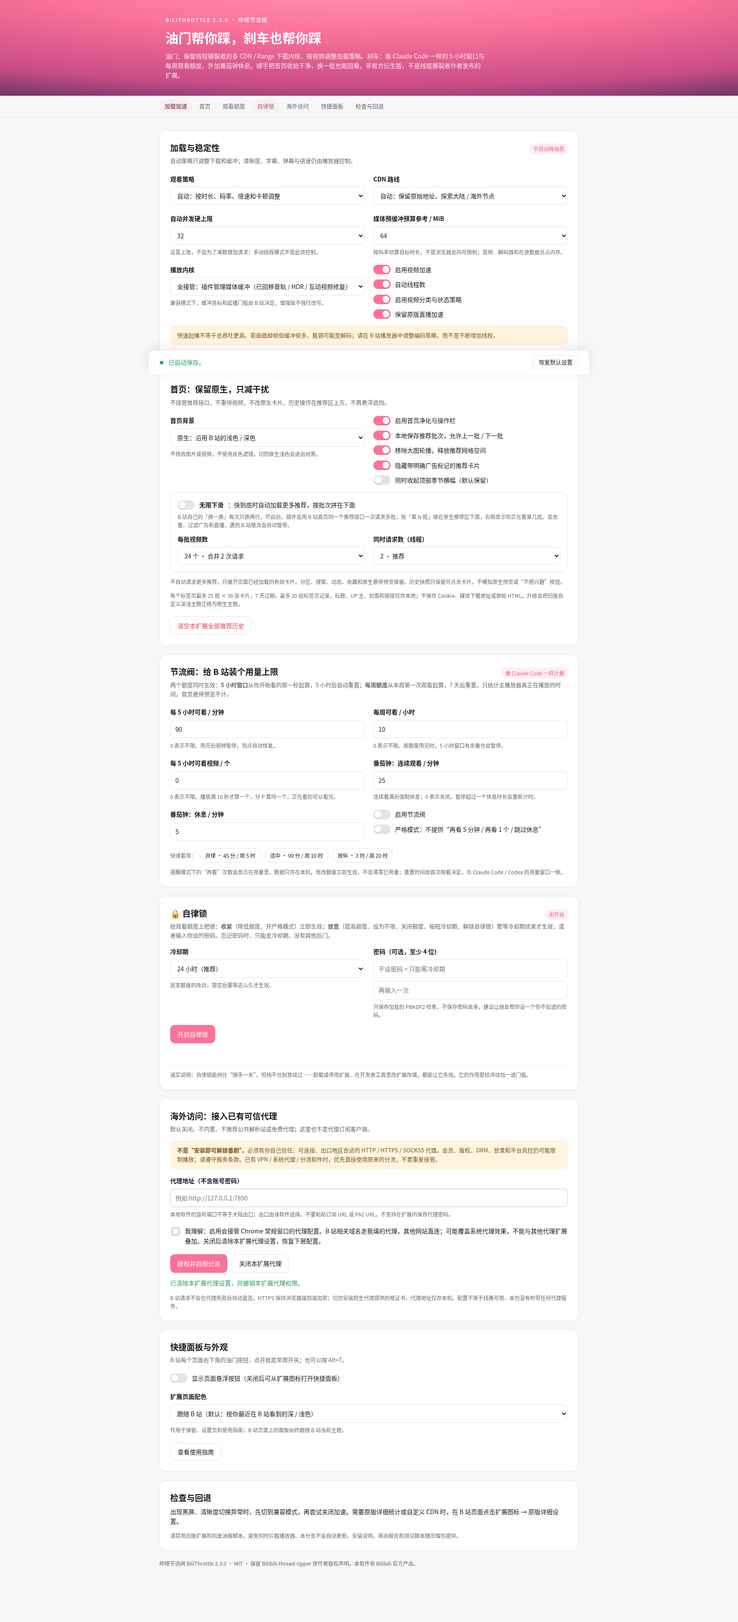
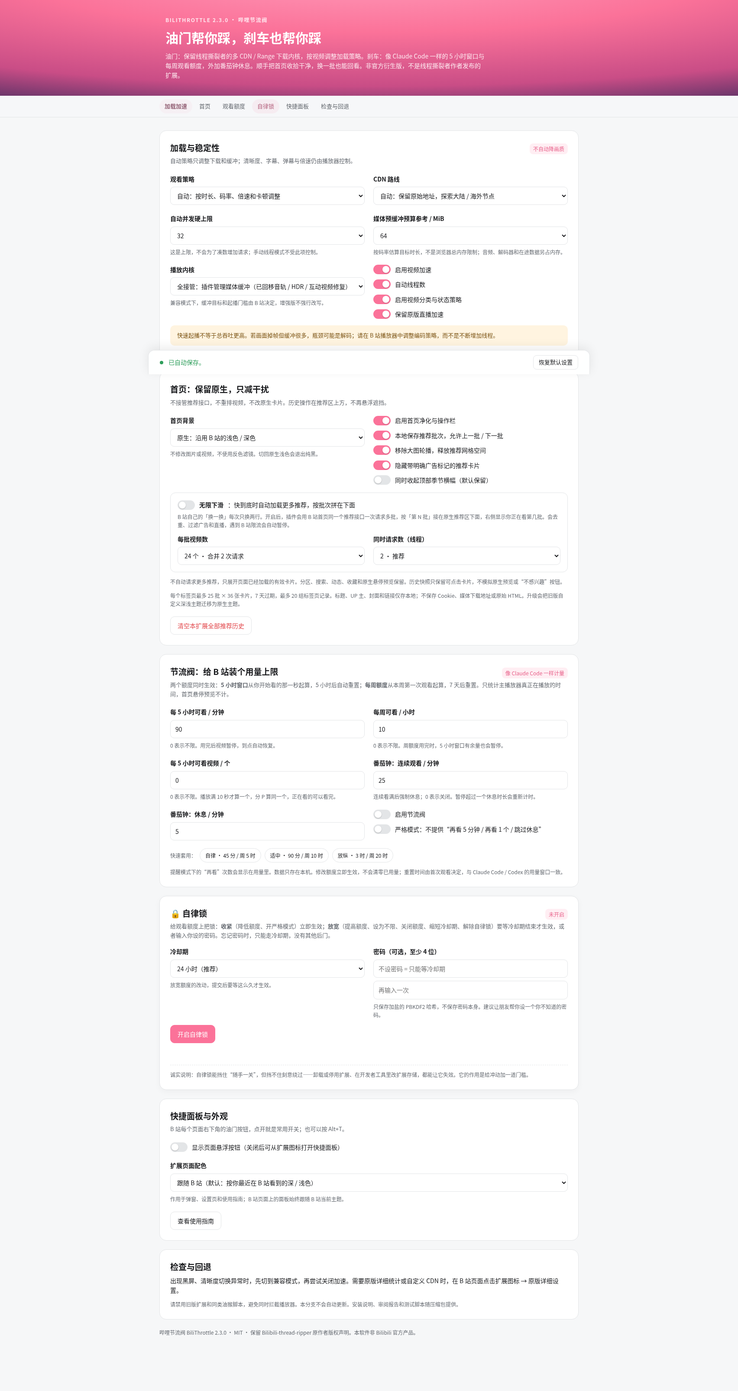
Options: remove the proxy section (Chrome rejects 'proxy' as optional); section nav follows the middle of the screen
- manifest: drop optional_permissions ['proxy']. Chrome lists proxy among the
  permissions that cannot be optional, so it was never grantable (the
  extensions page warned). Making it required would add an install warning and
  disable the extension on update until re-approved, for a niche feature.
  Removed the 海外访问 section, its toc link, options.js code and proxy-core.js;
  the service worker drops the stale flowProxy key.
- nav: the section under the middle of the visible area is current; one
  filling more than half of it always wins; near the page end the line slides
  down so short last sections get lit. Fixes 首页 lit while 节流阀 filled
  the screen at 1280x800.
- tests/browser-options.py: the real options page in the unpacked extension,
  wheel-scrolled at 1280x800 and 1920x1200 (3).

Changed region(s): [[0.0, 0.0, 1.0, 0.9654], [0.6221, 0.9031, 0.7465, 0.9343], [0.6843, 0.4671, 0.7465, 0.4983]]

diff --git a/extension/ui/options.html b/extension/ui/options.html
@@ -1,6 +1,6 @@
 <!doctype html><html lang="zh-CN"><head><meta charset="utf-8"><meta name="viewport" content="width=device-width,initial-scale=1"><title>哔哩节流阀 · 设置</title><script src="../src/ui-kit.js"></script><link rel="stylesheet" href="common.css"></head><body>
 <header class="hero"><div style="max-width:940px;margin:auto"><div class="brand">BILITHROTTLE 2.3.0 · 哔哩节流阀</div><h1>油门帮你踩，刹车也帮你踩</h1><p>油门：保留线程撕裂者的多 CDN / Range 下载内核，按视频调整加载策略。刹车：像 Claude Code 一样的 5 小时窗口与每周观看额度，外加番茄钟休息。顺手把首页收拾干净，换一批也能回看。非官方衍生版，不是线程撕裂者作者发布的扩展。</p></div></header>
-<nav class="toc" id="toc" aria-label="设置分区"><ul><li><a href="#speed">加载加速</a></li><li><a href="#home">首页</a></li><li><a href="#focus">观看额度</a></li><li><a href="#lock">自律锁</a></li><li><a href="#proxy">海外访问</a></li><li><a href="#quick">快捷面板</a></li><li><a href="#help">检查与回退</a></li></ul></nav>
+<nav class="toc" id="toc" aria-label="设置分区"><ul><li><a href="#speed">加载加速</a></li><li><a href="#home">首页</a></li><li><a href="#focus">观看额度</a></li><li><a href="#lock">自律锁</a></li><li><a href="#quick">快捷面板</a></li><li><a href="#help">检查与回退</a></li></ul></nav>
 <main class="wrap"><form id="settings"><section class="card" id="speed"><div class="row between"><h2>加载与稳定性</h2><span class="pill">不自动降画质</span></div><p class="muted">自动策略只调整下载和缓冲；清晰度、字幕、弹幕与倍速仍由播放器控制。</p>
 <div class="grid mt"><div class="field"><label for="strategy">观看策略</label><select id="strategy"><option value="auto">自动：按时长、码率、倍速和卡顿调整</option><option value="smooth">稳播优先</option><option value="fast">起播优先</option><option value="economy">省流</option></select></div>
 <div class="field"><label for="mode">CDN 路线</label><select id="mode"><option value="auto">自动：保留原始地址，探索大陆 / 海外节点</option><option value="mainland">大陆优先</option><option value="overseas">海外优先</option><option value="custom">自定义（在原版详细设置中配置）</option></select></div>
@@ -39,12 +39,6 @@
 </div>
 <p id="lockStatus" class="status" role="status" aria-live="polite"></p><p class="fine honest">诚实说明：自律锁能挡住“随手一关”，但挡不住刻意绕过——卸载或停用扩展、在开发者工具里改扩展存储，都能让它失效。它的作用是给冲动加一道门槛。</p></section>
 </form>
-<section class="card" id="proxy"><h2>海外访问：接入已有可信代理</h2><p class="muted">默认关闭。不内置、不推荐公共解析站或免费代理；这里也不是代理订阅客户端。</p>
-<div class="notice"><strong>不是“安装即可解锁番剧”。</strong>必须有你自己信任、可连接、出口地区合适的 HTTP / HTTPS / SOCKS5 代理。会员、版权、DRM、登录和平台风控仍可能限制播放；请遵守服务条款。已有 VPN / 系统代理 / 分流软件时，优先直接使用原来的分流，不要重复接管。</div>
-<div class="field"><label for="proxyUrl">代理地址（不含账号密码）</label><input id="proxyUrl" type="text" placeholder="例如 http://127.0.0.1:7890" autocomplete="off" spellcheck="false"><span class="hint">本地软件的监听端口不等于大陆出口；出口由该软件选择。不要粘贴订阅 URL 或 PAC URL。不支持在扩展内保存代理密码。</span></div>
-<label class="checkbox-line" style="margin-top:18px"><input id="proxyConsent" type="checkbox"><span>我理解：启用会接管 Chrome 常规窗口的代理配置。B 站相关域名走我填的代理，其他网站直连；可能覆盖系统代理效果，不能与其他代理扩展叠加。关闭后清除本扩展代理设置，恢复下层配置。</span></label>
-<div class="actions"><button id="enableProxy" class="primary" type="button">授权并启用分流</button><button id="disableProxy" type="button">关闭本扩展代理</button></div><p id="proxyStatus" class="status" role="status" aria-live="polite"></p>
-<p class="fine">B 站请求不会在代理失败后自动直连。HTTPS 保持浏览器端到端加密；切勿安装陌生代理提供的根证书。代理地址仅存本机。配置不等于线路可用，本包没有附带任何代理服务。</p></section>
 <section class="card" id="quick"><h2>快捷面板与外观</h2><p class="muted">B 站每个页面右下角的油门按钮，点开就是常用开关；也可以按 Alt+T。</p><div class="stack mt"><label class="row"><span class="switch"><input type="checkbox" role="switch" id="quickFab" form="settings"><span></span></span>显示页面悬浮按钮（关闭后可从扩展图标打开快捷面板）</label></div><div class="field mt"><label for="uiTheme">扩展页面配色</label><select id="uiTheme" form="settings"><option value="bili">跟随 B 站（默认：按你最近在 B 站看到的深 / 浅色）</option><option value="system">跟随系统</option><option value="light">浅色</option><option value="dark">深色</option></select><span class="hint">作用于弹窗、设置页和使用指南；B 站页面上的面板始终跟随 B 站当前主题。</span></div><div class="actions"><a class="button-link" href="welcome.html" target="_blank">查看使用指南</a></div></section>
 <section class="card" id="help"><h2>检查与回退</h2><p>出现黑屏、清晰度切换异常时，先切到兼容模式，再尝试关闭加速。需要原版详细统计或自定义 CDN 时，在 B 站页面点击扩展图标 → 原版详细设置。</p><p class="fine">请禁用旧版扩展和同类油猴脚本，避免同时拦截播放器。本分支不会自动更新。安装说明、审阅报告和测试脚本随压缩包提供。</p></section>
-<p class="fine">哔哩节流阀 BiliThrottle 2.3.0 · MIT · 保留 Bilibili-thread-ripper 原作者版权声明。本软件非 Bilibili 官方产品。</p><div class="savebar" id="savebar"><span class="dot" aria-hidden="true"></span><p id="saved" class="status" role="status" aria-live="polite">改动会自动保存。</p><button type="button" id="restore" class="small">恢复默认设置</button></div></main><script src="../src/home-core.js"></script><script src="../src/focus-core.js"></script><script src="../src/proxy-core.js"></script><script src="../src/lock-core.js"></script><script src="options.js"></script></body></html>
+<p class="fine">哔哩节流阀 BiliThrottle 2.3.0 · MIT · 保留 Bilibili-thread-ripper 原作者版权声明。本软件非 Bilibili 官方产品。</p><div class="savebar" id="savebar"><span class="dot" aria-hidden="true"></span><p id="saved" class="status" role="status" aria-live="polite">改动会自动保存。</p><button type="button" id="restore" class="small">恢复默认设置</button></div></main><script src="../src/home-core.js"></script><script src="../src/focus-core.js"></script><script src="../src/lock-core.js"></script><script src="options.js"></script></body></html>

diff --git a/extension/ui/options.js b/extension/ui/options.js
@@ -96,30 +96,6 @@ chrome.storage.onChanged.addListener((changes,area)=>{
  if(area==='local'&&changes.focusLock)refreshLock();
 });
 
-/* ---------- proxy (unchanged behaviour) ---------- */
-const proxyCall=(method,details)=>new Promise((resolve,reject)=>{chrome.proxy.settings[method](details,result=>{const e=chrome.runtime.lastError;if(e)reject(new Error(e.message));else resolve(result);});});
-async function proxyState(){
- const data=await chrome.storage.local.get('flowProxy');if(data.flowProxy?.url)$('proxyUrl').value=data.flowProxy.url;
- if(!await chrome.permissions.contains({permissions:['proxy']})){$('proxyStatus').textContent='未授权 / 未启用；浏览器代理保持不变。';return;}
- const s=await proxyCall('get',{incognito:false});$('proxyStatus').textContent=s.levelOfControl==='controlled_by_this_extension'?'本扩展的代理分流已配置。线路是否可用，需要在真实 B 站页面验证。':`本扩展未控制当前代理（${s.levelOfControl}）。`;
-}
-$('enableProxy').onclick=async()=>{
- const b=$('enableProxy');try{
-  if(!$('proxyConsent').checked)throw new Error('请先阅读并勾选代理影响说明。');
-  const url=$('proxyUrl').value.trim(),pac=globalThis.__BTR_PROXY_CORE__.pac(url);
-  const granted=await chrome.permissions.request({permissions:['proxy']});if(!granted)throw new Error('未获得代理权限，配置没有更改。');
-  b.disabled=true;const s=await proxyCall('get',{incognito:false});
-  if(!['controllable_by_this_extension','controlled_by_this_extension'].includes(s.levelOfControl))throw new Error('代理正由其他扩展或管理策略控制，未覆盖。请保留原来的分流方式。');
-  await proxyCall('set',{value:{mode:'pac_script',pacScript:{data:pac,mandatory:true}},scope:'regular_only'});
-  await chrome.storage.local.set({flowProxy:{url,at:Date.now()}});await proxyState();
- }catch(e){ui.flash($('proxyStatus'),e.message,'error');}finally{b.disabled=false;}
-};
-$('disableProxy').onclick=async()=>{try{
- if(await chrome.permissions.contains({permissions:['proxy']})){await proxyCall('clear',{scope:'regular_only'});await chrome.permissions.remove({permissions:['proxy']});}
- await chrome.storage.local.remove('flowProxy');ui.flash($('proxyStatus'),'已清除本扩展代理设置，并撤销本扩展代理权限。','ok');
-}catch(e){ui.flash($('proxyStatus'),e.message,'error');}};
-proxyState().catch(e=>$('proxyStatus').textContent=e.message);
-
 /* ---------- self-discipline lock ---------- */
 let lock={locked:false};
 const lockSay=(t,k)=>ui.flash($('lockStatus'),t,k);
@@ -217,25 +193,25 @@ async function focusUsage(){try{const r=await chrome.runtime.sendMessage({type:'
  let sn=$('focusUsage').querySelector('.snoozes');if(r.snoozes){if(!sn){sn=document.createElement('p');sn.className='hint snoozes';$('focusUsage').append(sn);}sn.textContent=`这个窗口里已经“再看”了 ${r.snoozes} 次`;}else sn?.remove();
 }catch(_){}}
 
-/* ---------- sticky section nav: the section under a reading line just below the nav is current ---------- */
+/* ---------- sticky section nav: the section under the middle of the visible area is current ---------- */
 const links=[...document.querySelectorAll('.toc a')],targets=links.map(a=>document.querySelector(a.getAttribute('href'))).filter(Boolean);
 let navFrame=0,navCurrent=null;
 let navPin=null;
 function navUpdate(){
  navFrame=0;
  if(navPin&&performance.now()<navPin.until){setNav(navPin.target);return;}navPin=null;
- // The section whose top is closest above the 35% line of the viewport (below the sticky nav)…
- const top=$('toc')?.getBoundingClientRect().bottom||0,bottom=innerHeight-($('savebar')?.offsetHeight||0);
- const line=Math.max(top+8,innerHeight*.35);
- let cur=targets[0],best=null,bestArea=0;
- for(const t of targets){
-  const r=t.getBoundingClientRect();
-  if(r.top<=line)cur=t;
-  const area=Math.max(0,Math.min(r.bottom,bottom)-Math.max(r.top,top));
-  if(area>bestArea){bestArea=area;best=t;}
- }
- // …unless another section clearly owns the screen (more than 60% of the visible area).
- if(best&&best!==cur&&bestArea>.6*(bottom-top))cur=best;
+ // The section under the middle of the visible area (between the sticky nav and the save bar).
+ // A 35%-line rule lagged on short screens: at 1280×800 a section filling 56% of the screen
+ // stayed unlit because its top was still below the line.
+ const top=Math.max(0,$('toc')?.getBoundingClientRect().bottom||0),bottom=innerHeight-($('savebar')?.offsetHeight||0);
+ // Over the last stretch of scrolling the line slides down to the bottom edge, so short sections
+ // at the end of a tall window still get their turn before the page runs out.
+ const mid=(top+bottom)/2,span=bottom-mid,remaining=document.documentElement.scrollHeight-innerHeight-scrollY;
+ const line=mid+Math.max(0,span-Math.max(0,remaining));
+ let cur=targets[0];
+ for(const t of targets){if(t.getBoundingClientRect().top<=line)cur=t;else break;}
+ // A section filling more than half of the visible area is always the current one.
+ for(const t of targets){const r=t.getBoundingClientRect();if(Math.min(r.bottom,bottom)-Math.max(r.top,top)>span){cur=t;break;}}
  if(innerHeight+scrollY>=document.documentElement.scrollHeight-4)cur=targets.at(-1); // Bottom of the page: the last section, even if short.
  setNav(cur);
 }

diff --git a/extension/src/service-worker.js b/extension/src/service-worker.js
@@ -17,7 +17,10 @@ function setThreadBadge(tabId, enabled, activeThreads) {
 async function prepareExtension() {
   const s = await chrome.storage.sync.get(null);
   const defaults = {mode:"auto", smartPolicy:true, strategy:"auto", memoryBudgetMB:64, maxAutoThreads:32};
-  // One-time schema migration: preserve playback and proxy settings, remove the old forced theme.
+  // The old "海外访问" proxy section was removed in 2.3.0 (Chrome never allowed `proxy` as an
+  // optional permission, so it could not be granted); drop its saved address, if any.
+  chrome.storage.local.remove("flowProxy").catch(() => {});
+  // One-time schema migration: preserve playback settings, remove the old forced theme.
   if (s.flowHomeSchema !== 2) {
     await chrome.storage.sync.set({flowHomeSchema:2,homeTheme:["native","oled"].includes(s.homeTheme)?s.homeTheme:"native",
       homeHideCarousel:s.homeHideCarousel !== false,homeHideBanner:s.homeHideBanner === true,homeHideAds:s.homeHideAds !== false});

diff --git a/extension/tests/browser-dom.py b/extension/tests/browser-dom.py
@@ -139,7 +139,7 @@ with sync_playwright() as p:
  markup=(ROOT/'ui/options.html').read_text();markup=re.sub(r'<script[^>]*>.*?</script>','',markup,flags=re.S);markup=re.sub(r'<link[^>]*>','',markup)
  option.set_content(markup);option.add_style_tag(content=(ROOT/'ui/common.css').read_text())
  script(option,'tests/browser-shim.js');option.evaluate("window.chrome=window.chromeMock;0")  # extension page: ui-kit reads chrome.storage for the theme
- for f in ['src/ui-kit.js','src/home-core.js','src/focus-core.js','src/proxy-core.js','src/lock-core.js']:script(option,f)
+ for f in ['src/ui-kit.js','src/home-core.js','src/focus-core.js','src/lock-core.js']:script(option,f)
  # The service worker owns watch-limit writes (self-discipline lock); mock it as "no lock".
  option.evaluate("chromeMock.runtime.sendMessage=async m=>{if(m.type==='lock-state')return {locked:false};if(m.type==='focus-set'){await chromeMock.storage.sync.set(m.changes);return {applied:m.changes,deferred:{}};}return {};};0")
  option.evaluate("code=>new Function('chrome',code)(window.chromeMock)",(ROOT/'ui/options.js').read_text())
@@ -167,58 +167,51 @@ with sync_playwright() as p:
  option.wait_for_timeout(500);option.screenshot(path=str(ROOT/'docs/options-dark-preview.png'))
  option.evaluate("chromeMock.storage.local.set({biliTheme:{dark:false,at:Date.now()}})");option.wait_for_function(f"({TH})==='light'",timeout=2000)
  ok('extension page theme: 跟随 B 站 (default, live from the recorded B 站 theme) / 跟随系统 / 浅色 / 深色, switching live')
- assert option.evaluate('permissionRequests')==0;option.locator('#enableProxy').click();assert '勾选' in option.locator('#proxyStatus').inner_text()
- option.locator('#proxyConsent').check();option.locator('#proxyUrl').fill('https://user:pass@example.com/');option.locator('#enableProxy').click();assert '账号密码' in option.locator('#proxyStatus').inner_text();assert option.evaluate('permissionRequests')==0
- ok('proxy stays opt-in; consent and credential rejection precede mock permission requests')
- option.locator('#proxyUrl').fill('http://127.0.0.1:7890');option.locator('#enableProxy').click();option.wait_for_function('proxyCalls.length===1');option.locator('#disableProxy').click()
- assert not option.evaluate("chromeMock.permissions.contains({permissions:['proxy']})")
- ok('legacy proxy controls set and revoke only mocked proxy state')
+ assert option.locator('#proxy').count()==0 and option.locator('.toc a[href="#proxy"]').count()==0 and option.evaluate('permissionRequests')==0
+ ok('no proxy section or permission request (feature removed)')
  option.locator('#restore').click();option.wait_for_selector('.modal[role=dialog][aria-modal=true]')
  assert option.evaluate("document.activeElement?.closest('.modal')!=null") and option.evaluate("document.querySelector('main').inert")
  option.keyboard.press('Escape');option.wait_for_timeout(300);assert option.locator('.modal').count()==0 and option.locator('#homeTheme').input_value()=='oled'
  ok('restore asks in a styled in-page dialog (focus inside, page inert); Esc cancels and changes nothing')
  option.locator('#restore').click();option.wait_for_selector('.modal');option.get_by_role('button',name='恢复默认',exact=True).click()
  option.wait_for_function("document.querySelector('#homeTheme').value==='native'",timeout=3000);assert not option.locator('#homeHideBanner').is_checked()
- ok('restore defaults returns native theme without modifying proxy configuration')
+ ok('restore defaults returns native theme')
  option.wait_for_function("!document.querySelector('.modal-back')",timeout=3000)
  option.evaluate("document.querySelector('#quickFab').scrollIntoView({block:'center'})");option.locator('#quickFab').uncheck(force=True);option.wait_for_function('fixtureStorage.all.sync.quickFab===false',timeout=3000)
  ok('controls outside the form (快捷面板) auto-save too')
  option.set_viewport_size({'width':1100,'height':700})
- option.evaluate("document.querySelector('#proxy').scrollIntoView({block:'start'})");option.wait_for_timeout(300)
+ option.evaluate("document.querySelector('#lock').scrollIntoView({block:'start'})");option.wait_for_timeout(300)
  BAR="(()=>{const r=document.querySelector('#savebar').getBoundingClientRect();return [r.bottom,innerHeight,r.top]})()"
  bar=option.evaluate(BAR);assert abs(bar[1]-bar[0])<1,bar
  CUR="document.querySelector('.toc a[aria-current=true]').getAttribute('href')"
- assert option.evaluate(CUR)=='#proxy'
+ assert option.evaluate(CUR)=='#lock',option.evaluate(CUR)
  option.evaluate("scrollTo(0,document.documentElement.scrollHeight)");option.wait_for_timeout(300)
  bar=option.evaluate(BAR);assert abs(bar[1]-bar[0])<1,bar
  last=option.evaluate("(()=>{const m=document.querySelector('main.wrap');const kids=[...m.children].filter(n=>n.id!=='savebar');return Math.max(...kids.map(n=>n.getBoundingClientRect().bottom))})()")
  assert last<=bar[2]+1,(last,bar)  # page end (footer) clears the fixed bar
  assert option.evaluate(CUR)=='#help'
  ok('save bar is truly fixed at bottom:0 everywhere, and the page end (footer) stays clear of it')
- # Sections of very different heights: put each section's top just above the 35% line → it is current.
+ # Sections of very different heights: the section under the middle of the visible area is current.
  ids=option.evaluate("[...document.querySelectorAll('.toc a')].map(a=>a.getAttribute('href').slice(1))")
  hs=option.evaluate("[...document.querySelectorAll('.toc a')].map(a=>Math.round(document.querySelector(a.getAttribute('href')).getBoundingClientRect().height))")
  assert max(hs)>2*min(hs),hs
+ MID="(()=>{const top=Math.max(0,document.querySelector('.toc').getBoundingClientRect().bottom),bot=innerHeight-document.querySelector('#savebar').offsetHeight;return (top+bot)/2})()"
  checked=0
  for i,sid in enumerate(ids):
-  option.evaluate(f"(()=>{{const t=document.getElementById('{sid}');scrollTo(0,scrollY+t.getBoundingClientRect().top-innerHeight*.3)}})()");option.wait_for_timeout(120)
-  at_bottom=option.evaluate("innerHeight+scrollY>=document.documentElement.scrollHeight-4")
-  if at_bottom and i<len(ids)-1:continue
-  assert option.evaluate(CUR)=='#'+sid,(sid,option.evaluate(CUR));checked+=1
-  if i>0 and not at_bottom:
-   # top just BELOW the 35% line and not owning the screen → the previous section stays current
-   option.evaluate(f"(()=>{{const t=document.getElementById('{sid}');scrollTo(0,scrollY+t.getBoundingClientRect().top-innerHeight*.4)}})()");option.wait_for_timeout(120)
-   prev_area=option.evaluate(f"(()=>{{const t=document.getElementById('{sid}'),r=t.getBoundingClientRect(),top=document.querySelector('.toc').getBoundingClientRect().bottom,bot=innerHeight-document.querySelector('#savebar').offsetHeight;return (Math.min(r.bottom,bot)-Math.max(r.top,top))/(bot-top)}})()")
-   want='#'+sid if prev_area>.6 else '#'+ids[i-1]
-   assert option.evaluate(CUR)==want,(sid,want,option.evaluate(CUR))
- assert checked>=len(ids)-2,(checked,len(ids))
- # A tall section filling the screen wins even if its top is below the 35% line.
+  for off,want in ((-20,sid),(20,ids[i-1] if i else sid)):
+   option.evaluate(f"(()=>{{const t=document.getElementById('{sid}');scrollTo(0,scrollY+t.getBoundingClientRect().top-({MID})-({off}))}})()");option.wait_for_timeout(120)
+   # skip the last stretch (the line slides toward the bottom there) and positions where another section owns >50%
+   if option.evaluate(f"document.documentElement.scrollHeight-innerHeight-scrollY<innerHeight-document.querySelector('#savebar').offsetHeight-({MID})"):continue
+   if option.evaluate(f"[...document.querySelectorAll('.toc a')].some(a=>{{const r=document.querySelector(a.getAttribute('href')).getBoundingClientRect(),top=Math.max(0,document.querySelector('.toc').getBoundingClientRect().bottom),bot=innerHeight-document.querySelector('#savebar').offsetHeight;return a.getAttribute('href')!=='#{want}'&&Math.min(r.bottom,bot)-Math.max(r.top,top)>(bot-top)/2}})"):continue
+   assert option.evaluate(CUR)=='#'+want,(sid,off,want,option.evaluate(CUR));checked+=1
+ assert checked>=len(ids),(checked,len(ids))
+ # A section owning more than half of the visible area is always current (the 1280×800 lag case).
  option.evaluate("(()=>{const t=document.getElementById('lock');scrollTo(0,scrollY+t.getBoundingClientRect().top-innerHeight*.38)})()");option.wait_for_timeout(120)
  own=option.evaluate("(()=>{const r=document.getElementById('lock').getBoundingClientRect(),top=document.querySelector('.toc').getBoundingClientRect().bottom,bot=innerHeight-document.querySelector('#savebar').offsetHeight;return (Math.min(r.bottom,bot)-Math.max(r.top,top))/(bot-top)})()")
- assert own>.6,own;assert option.evaluate(CUR)=='#lock',option.evaluate(CUR)
+ assert own>.5,own;assert option.evaluate(CUR)=='#lock',option.evaluate(CUR)
  option.set_viewport_size({'width':1704,'height':864})
- ok(f'section nav: the section whose top is closest above the 35% line ({checked} sections, heights {min(hs)}–{max(hs)}px), or one owning >60% of the screen')
- option.locator('#proxyConsent').uncheck();option.locator('#proxyUrl').fill('');option.evaluate('scrollTo(0,0)');option.screenshot(path=str(ROOT/'docs/options-preview.png'),full_page=True)
+ ok(f'section nav: the section under the middle of the visible area ({checked} positions, heights {min(hs)}–{max(hs)}px); one owning >50% is always current')
+ option.evaluate('scrollTo(0,0)');option.screenshot(path=str(ROOT/'docs/options-preview.png'),full_page=True)
  assert not errors,errors;ok('no uncaught errors across homepage and options regression scenarios')
- (ROOT/'tests/browser-dom-results.json').write_text(json.dumps({'browser':browser.version,'environment':'Local fixture DOM only, mocked Chrome APIs; NOT installed extension or live Bilibili; proxy never enabled','tests':results,'uncaught_errors':errors},ensure_ascii=False,indent=2))
+ (ROOT/'tests/browser-dom-results.json').write_text(json.dumps({'browser':browser.version,'environment':'Local fixture DOM only, mocked Chrome APIs; NOT installed extension or live Bilibili','tests':results,'uncaught_errors':errors},ensure_ascii=False,indent=2))
  print('TOTAL',len(results),flush=True);browser.close()

diff --git a/extension/tests/browser-options.py b/extension/tests/browser-options.py
@@ -1,0 +1,37 @@
+"""Real options page inside the installed (unpacked) extension: section nav while scrolling with the
+mouse wheel at 1280×800 and 1920×1200. Checks that the window is the scroll container, that every
+toc link has a real section, and that a section filling more than half of the visible area is lit."""
+import pathlib,json,os,tempfile
+from playwright.sync_api import sync_playwright
+ROOT=pathlib.Path(__file__).resolve().parents[1]
+results=[]
+def ok(n):results.append({'test':n,'passed':True});print('PASS',n,flush=True)
+STATE="""()=>{const top=Math.max(0,document.querySelector('.toc').getBoundingClientRect().bottom),bot=innerHeight-document.querySelector('#savebar').offsetHeight;
+ const own=[...document.querySelectorAll('.toc a')].map(a=>{const r=document.querySelector(a.getAttribute('href')).getBoundingClientRect();return [a.getAttribute('href'),Math.max(0,Math.min(r.bottom,bot)-Math.max(r.top,top))/(bot-top)]});
+ return {y:scrollY,end:innerHeight+scrollY>=document.documentElement.scrollHeight-4,cur:document.querySelector('.toc a[aria-current=true]')?.getAttribute('href'),own}}"""
+with sync_playwright() as p:
+ ctx=p.chromium.launch_persistent_context(tempfile.mkdtemp(),channel='chromium',headless=True,args=['--no-sandbox',f'--disable-extensions-except={ROOT}',f'--load-extension={ROOT}'])
+ sw=ctx.service_workers[0] if ctx.service_workers else ctx.wait_for_event('serviceworker')
+ eid=sw.url.split('/')[2];errors=[]
+ for w,h in ((1280,800),(1920,1200)):
+  pg=ctx.new_page();pg.on('pageerror',lambda e:errors.append(str(e)));pg.set_viewport_size({'width':w,'height':h})
+  pg.goto(f'chrome-extension://{eid}/ui/options.html');pg.wait_for_timeout(600)
+  info=pg.evaluate("""()=>({se:document.scrollingElement.tagName,scrollers:[...document.querySelectorAll('body *')].filter(e=>e.scrollHeight>e.clientHeight+2&&/(auto|scroll)/.test(getComputedStyle(e).overflowY)&&e.clientHeight>200).length,
+   missing:[...document.querySelectorAll('.toc a')].filter(a=>!document.querySelector(a.getAttribute('href'))).length,proxy:!!document.getElementById('proxy')})""")
+  assert info=={'se':'HTML','scrollers':0,'missing':0,'proxy':False},info
+  pg.mouse.move(w/2,h/2);samples=0;seen=set()
+  for i in range(60):
+   pg.mouse.wheel(0,100);pg.wait_for_timeout(90)
+   s=pg.evaluate(STATE);seen.add(s['cur'])
+   if s['end']:
+    assert s['cur']=='#help',s;break
+   for sec,frac in s['own']:
+    if frac>.5:assert s['cur']==sec,(w,h,s)
+   samples+=1
+  assert len(seen)==6,seen
+  ok(f'{w}×{h}: window scrolls; wheel through the page ({samples} samples) lights every section, a section filling >50% of the visible area is always current, page end lights the last')
+  pg.close()
+ assert not errors,errors;ok('no uncaught errors on the real options page')
+ ctx.close()
+(ROOT/'tests/browser-options-results.json').write_text(json.dumps({'environment':'unpacked extension in Playwright Chromium (headless), real options.html','results':results},ensure_ascii=False,indent=1))
+print('TOTAL',len(results))
